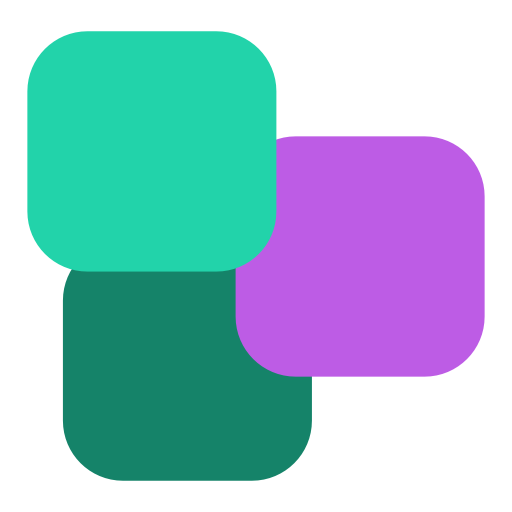
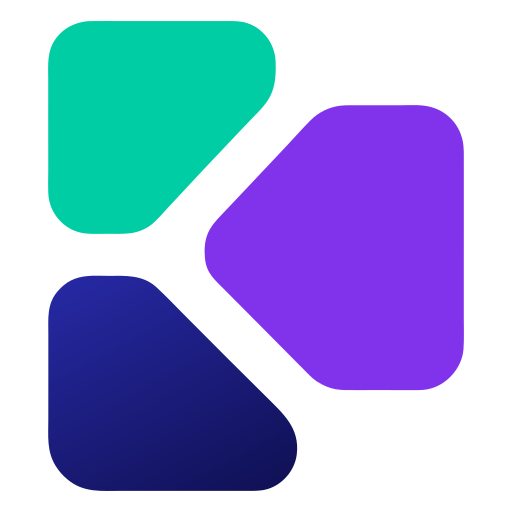
feat(app): adopt the new Kontena mark
The mark lives in three places, and a change to one of them alone shows up as
the icon and the in-app logo disagreeing: the raster icon.png (also the source
CI renders the macOS .icns from), icon.ico for Windows, and the KontenaLogo
drawing in Icons.axaml that the title bar, onboarding and Settings draw beside
the app name. All three now come from the same artwork.

The .png and the seven .ico sizes are rendered from the SVG rather than resized
off each other, so the small sizes are rasterised at their own resolution. The
SVG joins them as Assets/icon.svg — the design source the three are generated
from — and is removed from the AvaloniaResource glob, since nothing loads it at
runtime.

KontenaLogo carries the artwork's nested transforms flattened into one 0 0 512
512 space, with the gradient axis expressed against its own shape's bounds. Its
transparent canvas rectangle keeps the drawing bounds square, so the mark sits
in the same padding as the app icon instead of rendering slightly larger.

diff --git a/changelog.d/KON-131.changed.md b/changelog.d/KON-131.changed.md
@@ -1,0 +1,5 @@
+- **Kontena has a new mark.** The three flat squares are replaced by the shapes that read as a K —
+  teal, indigo and violet, the same three colours the interface already uses. It arrives everywhere
+  the old one appeared at once: the window and taskbar icon on every platform, and the mark drawn
+  beside the app name in the title bar, on the welcome screen and in Settings. That last one is
+  vector rather than a bitmap, so it stays sharp on a high-DPI screen at any size. (KON-131)
